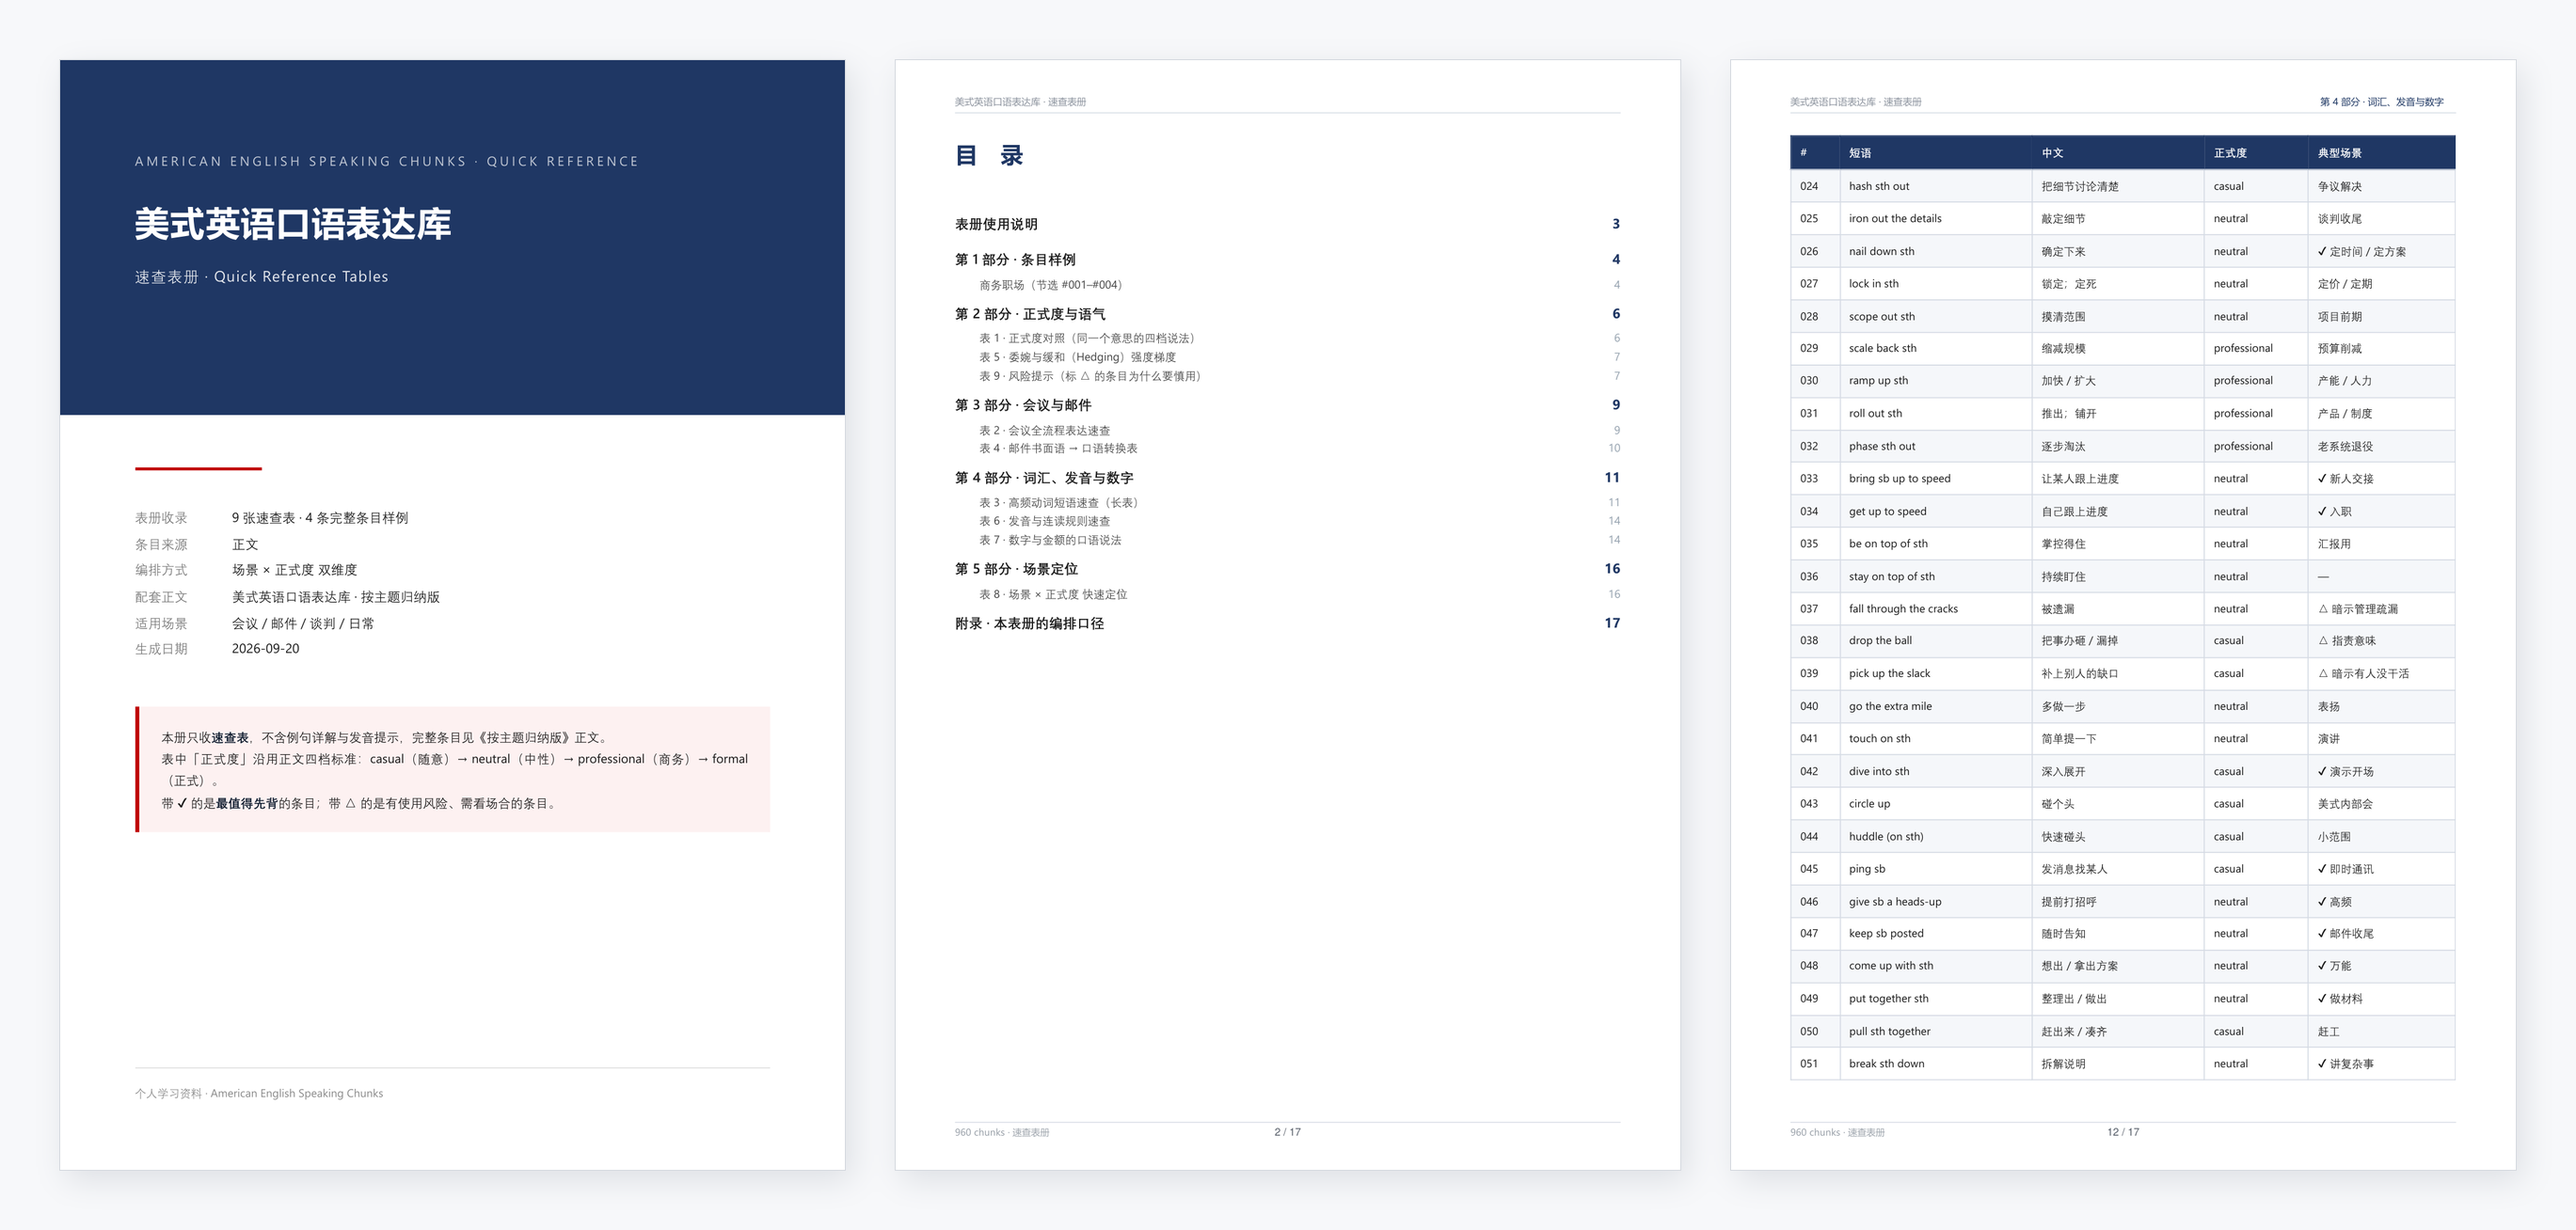
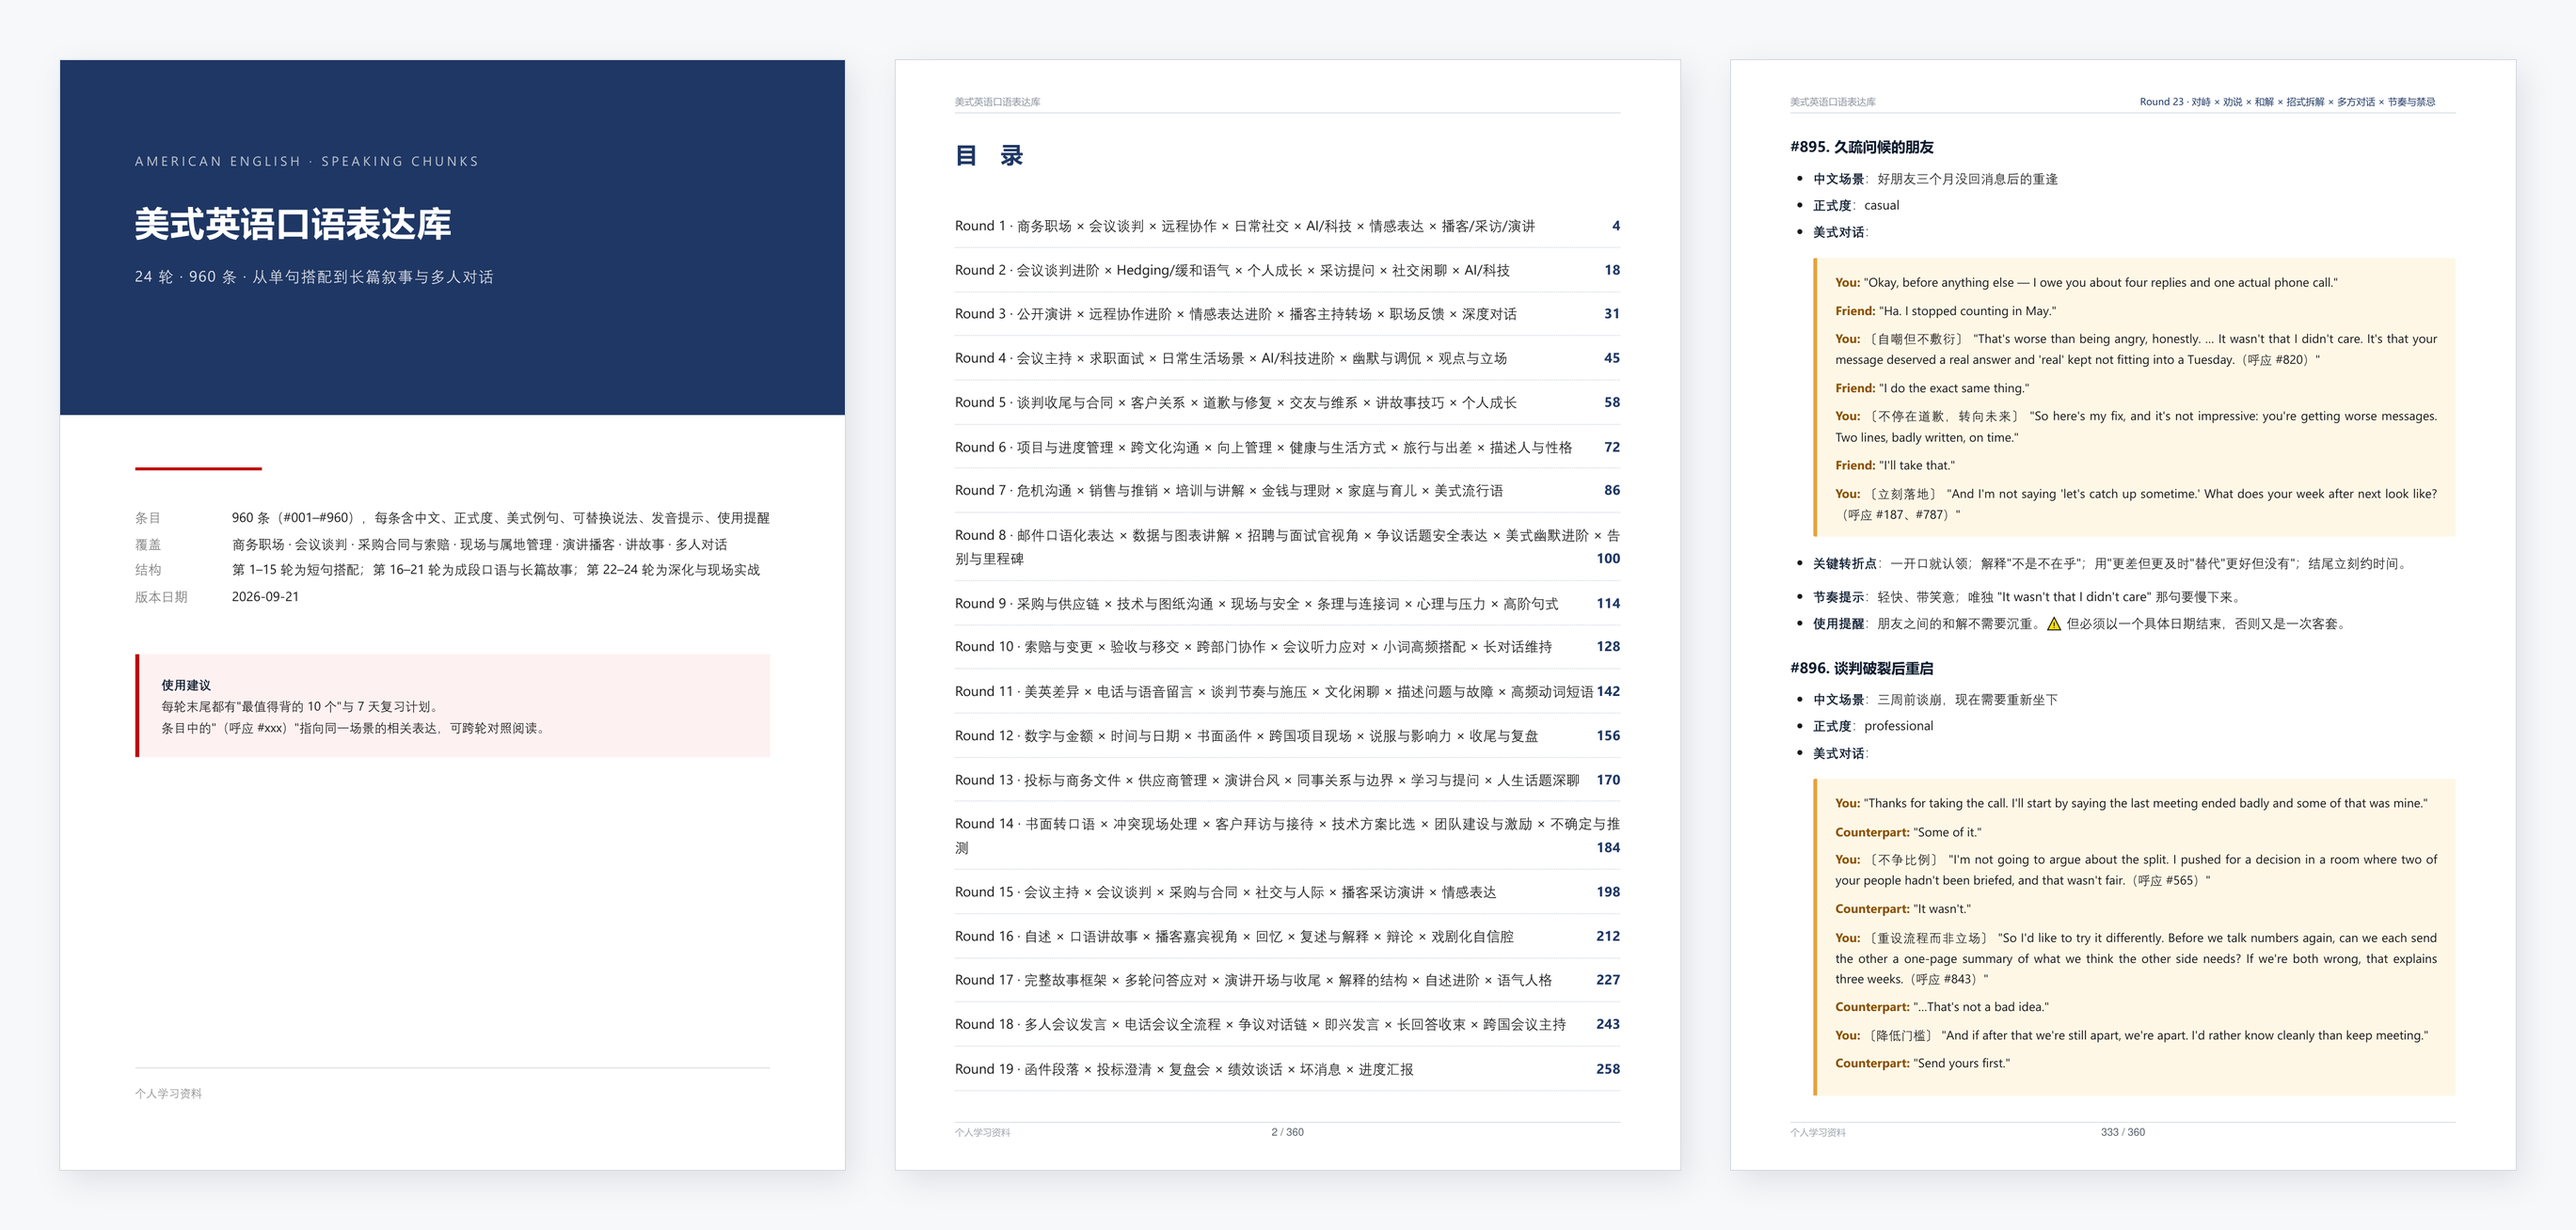
Use 360-page chunks book for cover/TOC/body screenshots
- Cover, TOC, chapter, summary, story and dialogue shots from the full book
- Table shots still generated from examples/ (reproducible)
- README notes the two screenshot sources

diff --git a/README.md b/README.md
@@ -56,14 +56,26 @@ md2pdf 走第四条：**用你电脑上已有的 Chrome 当排版引擎**（Blin
 
 ## 效果
 
-下面所有图都是 [`examples/口语表达库_速查表册.md`](examples/口语表达库_速查表册.md) 直接跑出来的（一份 17 页的美式英语口语速查表册），你 clone 下来能一模一样复现。
+截图来自两份文档：
+
+- **封面、目录、正文**：作者自己的一份 **360 页**美式英语口语学习资料，用默认样式直接生成。它本身不在仓库里，放在这里是为了展示长文档的真实效果
+- **表格**：[`examples/口语表达库_速查表册.md`](examples/口语表达库_速查表册.md)（17 页），clone 下来能一模一样复现
 
 ### 封面与目录
 
 | | |
 |---|---|
 | ![封面](assets/shots/01-cover.png) | ![目录](assets/shots/02-toc.png) |
-| **封面**：色块 + 元信息表 + 提示块，全部由 front-matter 配置 | **目录**：两级，页码是多遍渲染**回填的真实页码**，不是估的 |
+| **封面**：色块 + 元信息表 + 提示块，全部由 front-matter 配置 | **目录**：页码是多遍渲染**回填的真实页码**，360 页也一样准 |
+
+### 正文
+
+| | |
+|---|---|
+| ![章节首页](assets/shots/03-chapter.png) | ![本轮总结](assets/shots/05-summary.png) |
+| 章节自动分页，行内代码、嵌套列表 | 编号列表 + 行内代码；右上角跑动页眉显示当前所在章节 |
+| ![长篇故事](assets/shots/06-story.png) | ![多人对话](assets/shots/08-dialogue.png) |
+| `>` 引用块渲染成提示框，适合放长段落 | 同一页多个提示框，对话、标注混排 |
 
 ### 长表格跨页，表头自动重复
 
@@ -71,14 +83,10 @@ md2pdf 走第四条：**用你电脑上已有的 Chrome 当排版引擎**（Blin
 
 这是做正式文件时最省事的一个特性——**不用手工拆表，也不用在 Markdown 里重复写表头。**
 
-### 其他版式
-
 | | |
 |---|---|
 | ![宽表](assets/shots/04-table-wide.png) | ![表格+代码块](assets/shots/07-table-code.png) |
 | 五列宽表 + 表下提示框，斑马纹与深色表头 | 表格 / 代码块 / 提示框混排 |
-| ![章节首页](assets/shots/03-entries.png) | ![表格+提示框](assets/shots/05-table-callout.png) |
-| 章节首页自动分页，行内代码、嵌套列表 | 跑动页眉：右上角自动显示当前所在部分 |
 
 ---
 
@@ -124,7 +132,7 @@ Linux:    /usr/bin/google-chrome  /usr/bin/chromium  /usr/bin/chromium-browser
 
 ### 2.2 想要正式封面：加 front-matter
 
-在 `.md` 最开头（**必须是第一行**）加一段 YAML。下面就是示例文档自己用的 front-matter（上面那张封面图就是它生成的）：
+在 `.md` 最开头（**必须是第一行**）加一段 YAML。下面是 `examples/` 里示例文档自己用的 front-matter：
 
 ```yaml
 ---
@@ -192,7 +200,7 @@ footer_left: 960 chunks · 速查表册
 python md2pdf.py examples/口语表达库_速查表册.md
 ```
 
-输出应该和 `examples/口语表达库_速查表册.pdf` 一致。README 上面那些效果图就是它的页面。
+输出应该和 `examples/口语表达库_速查表册.pdf` 一致。README 上面的表格效果图就是它的页面。
 
 ---
 
